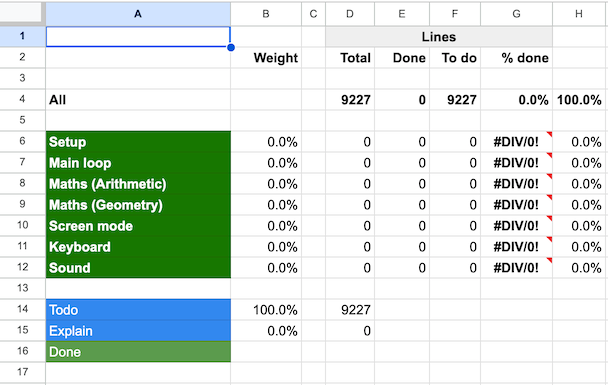
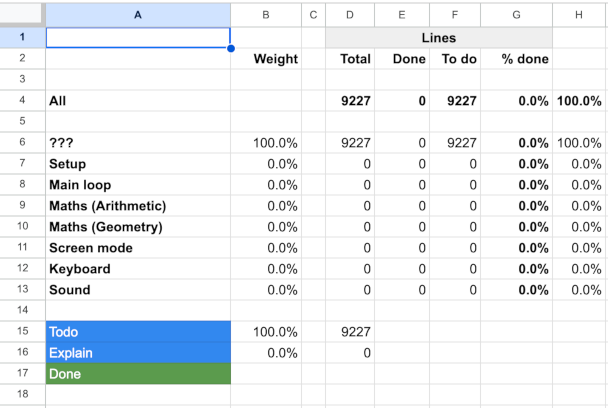
Update progress 0% sheet to fix div 0 errors

diff --git a/bbcelite.com/disassembly_diary/keeping_track.html b/bbcelite.com/disassembly_diary/keeping_track.html
@@ -37,11 +37,11 @@ page_header("disassembly_diary", "keeping_track.html", "Keeping track of progres
 							<li>See the <a href="https://docs.google.com/spreadsheets/d/12AiEkiLPcC6WVl_3-0M8lgeXLxXTVqgnqWj7h_Yn8iU/edit">100% progress sheet</a> in Google Sheets.</li>
 						</ul>
 
-						<p>Each spreadsheet has a "Summary" tab that shows current progress at a glance, and as things fill up, the colours go from white to light green to dark green. Here's the very start of the project, where all we have is a basic set of categories with no progress and 100.0% in the "Todo" field:</p>
+						<p>Each spreadsheet has a "Summary" tab that shows current progress at a glance, and as things fill up, the colours go from white to light green to dark green. Here's the very start of the project, where all we have is a basic set of placeholder categories with no progress in any of them:</p>
 
 						<img class="titleImage lightBorder" style="width: 304px" src="/images/diary/progress_sheet_0_per_cent.png" alt="The progress sheet at the start of the project">
 
-						<p>When we reach one-third progress, things are looking a bit better:</p>
+						<p>When we reach one-third progress, things are looking quite a bit better:</p>
 
 						<img class="titleImage lightBorder" style="width: 304px" src="/images/diary/progress_sheet_33_per_cent.png" alt="The progress sheet after one-third of the project">
 
